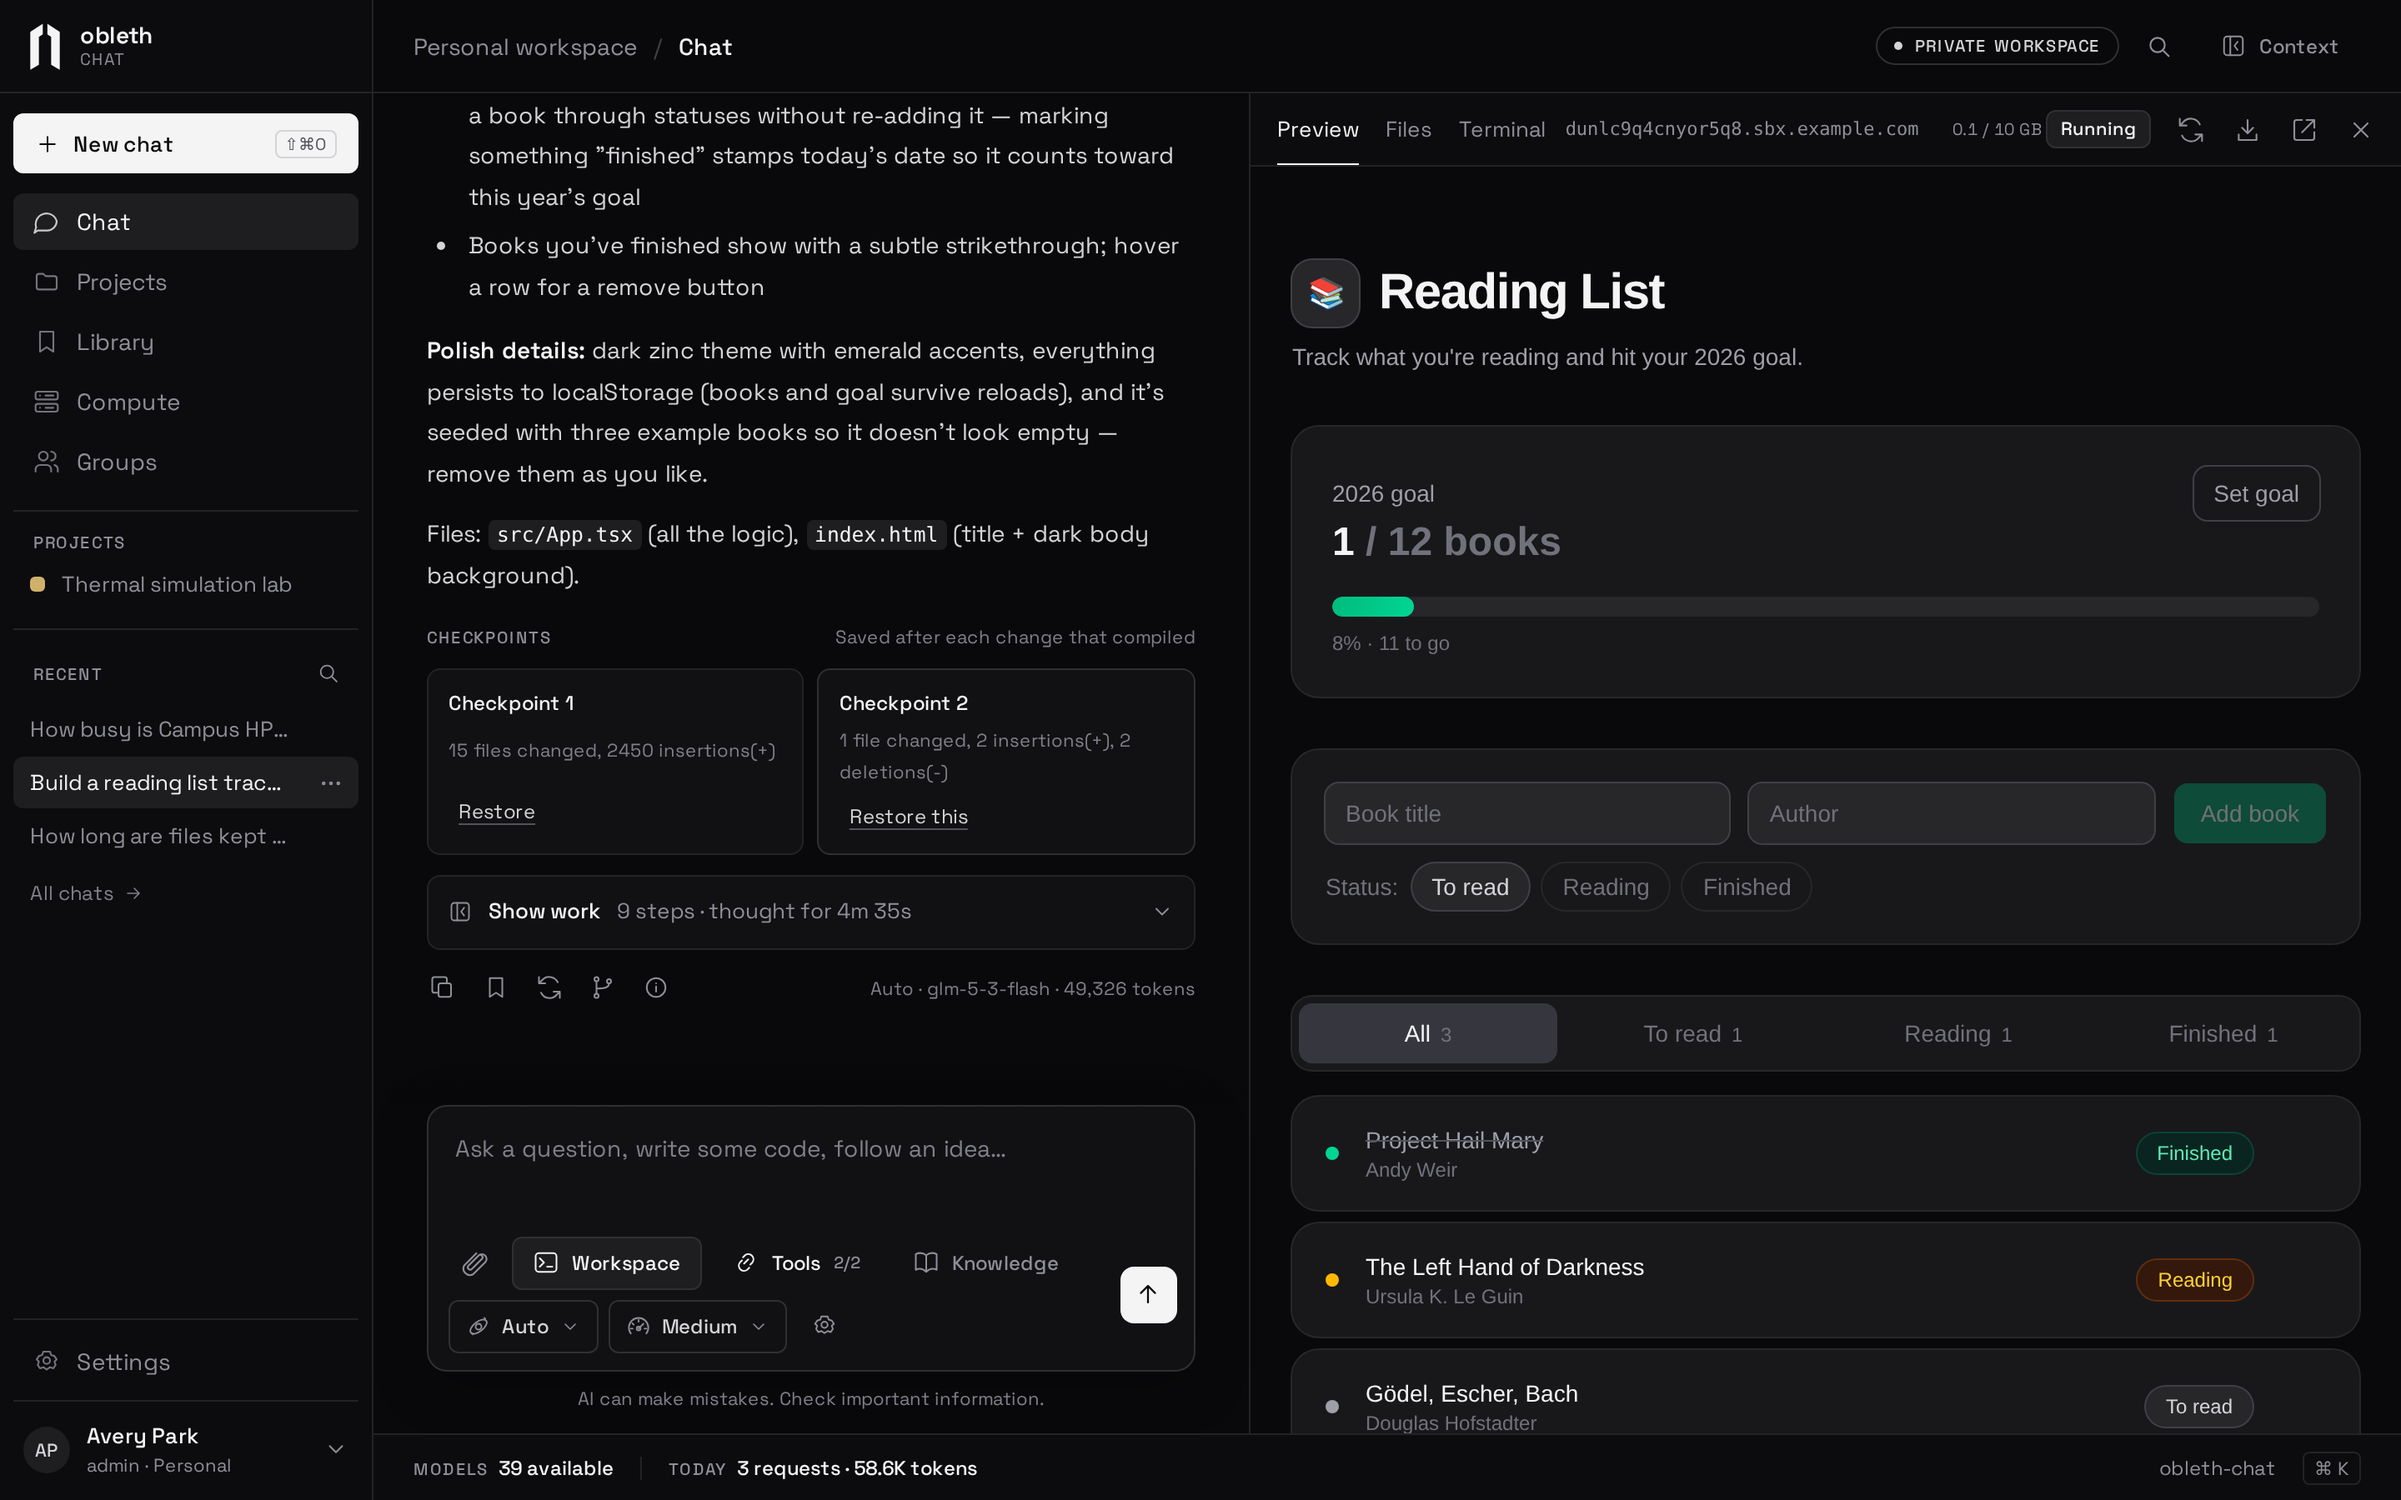
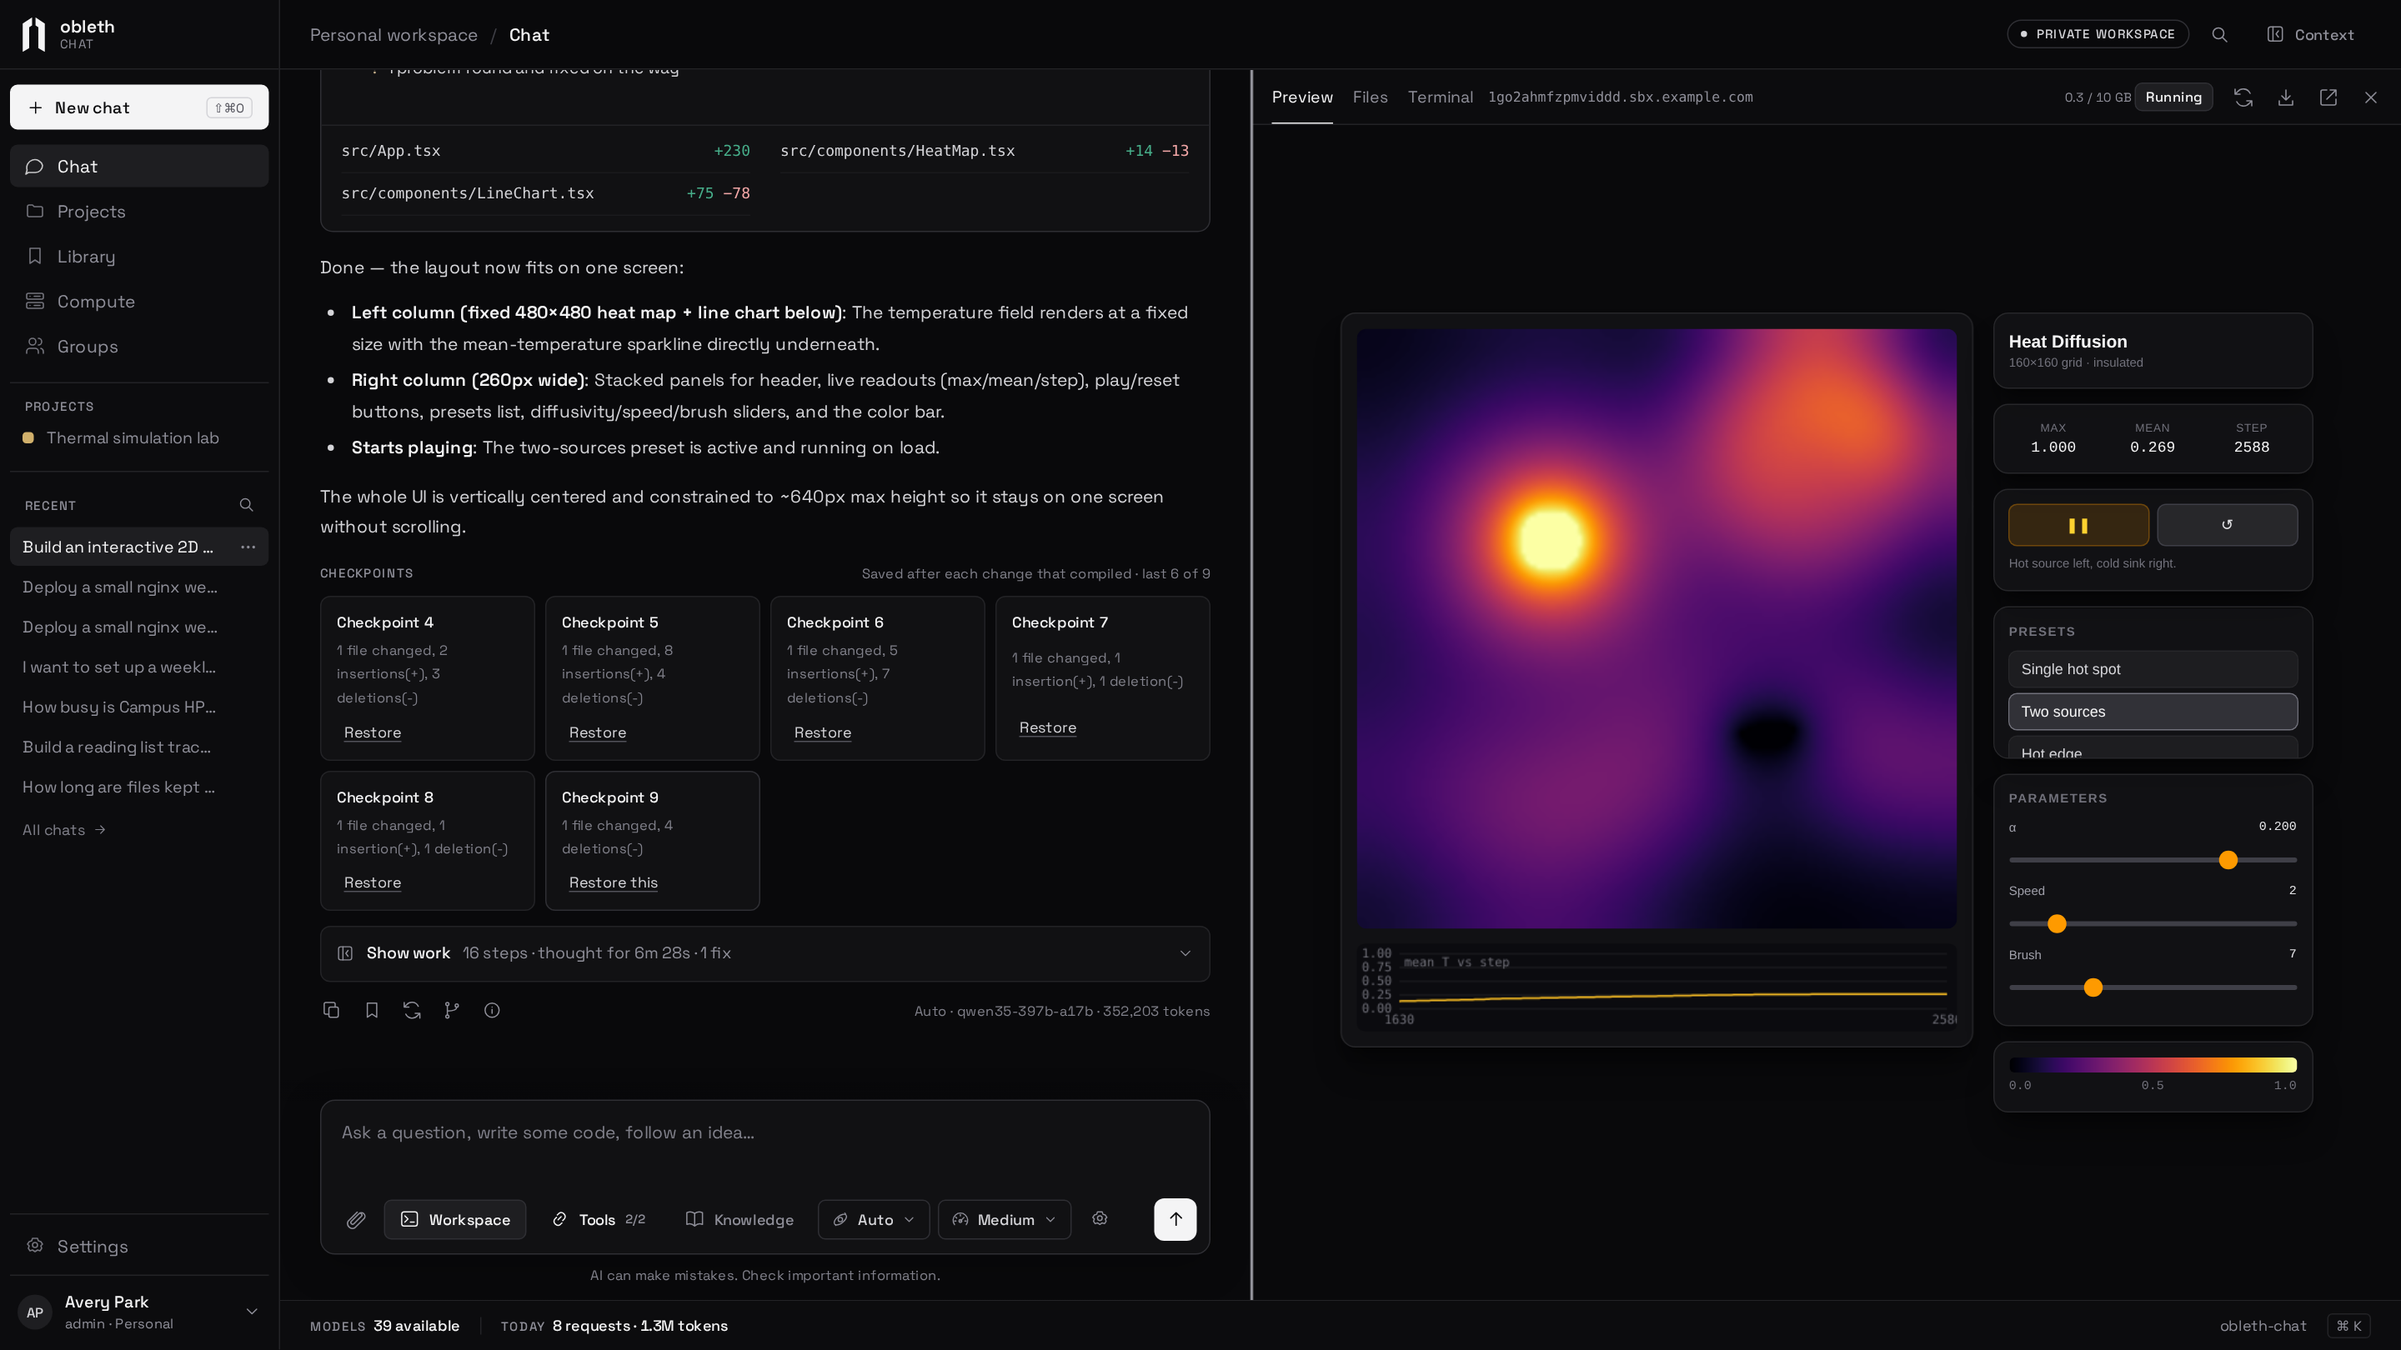
README: heat simulator workspace, question and approval cards

diff --git a/README.md b/README.md
@@ -25,7 +25,7 @@
 </p>
 
 <p align="center">
-  <img src=".github/assets/screenshots/workspace-build.png" alt="A chat building a reading-list app in a workspace: the model's summary, checkpoints and Show work on the left, the running app in the live preview on the right" width="100%">
+  <img src=".github/assets/screenshots/workspace-build.png" alt="A chat building an interactive heat diffusion simulator in a workspace: checkpoints and Show work on the left, the running app in the live preview on the right" width="100%">
 </p>
 
 ---
@@ -83,6 +83,14 @@ obleth-chat runs on your own servers in front of [obleth](https://github.com/the
     <td align="center"><sub>Your clusters, as tools that act as you</sub></td>
   </tr>
   <tr>
+    <td width="50%"><img src=".github/assets/screenshots/questions.png" alt="The model asking where a weekly benchmark should run, with a recommended option"></td>
+    <td width="50%"><img src=".github/assets/screenshots/approval.png" alt="A Kubernetes apply waiting for Allow or Deny, with the manifest the model wants to apply"></td>
+  </tr>
+  <tr>
+    <td align="center"><sub>The model asks before it plans</sub></td>
+    <td align="center"><sub>Nothing changes until you allow it</sub></td>
+  </tr>
+  <tr>
     <td width="50%"><img src=".github/assets/screenshots/project.png" alt="A project page with instructions for every chat, its collections and its chats"></td>
     <td width="50%"><img src=".github/assets/screenshots/clusters.png" alt="A Slurm cluster seen live: CPUs and memory in use, partitions, nodes and the queue"></td>
   </tr>
@@ -112,6 +120,32 @@ docker compose --env-file .env -f deploy/compose.connected.yaml up --build -d
 ```
 
 Accounts and chats work right away. To list models and stream replies, [connect the gateway](https://www.obleth.com/docs/run-chat/connect-gateway). The [install guide](https://www.obleth.com/docs/run-chat/install) covers Kubernetes, the first sign-in and production settings.
+
+## Branding and appearance
+
+Edit [web/site.config.js](web/site.config.js) and reload the page. This public, commented configuration controls the site name and subtitle, assistant name, browser title and description, optional logo and favicon, greeting and assistant icons, and the sign-in and home page text. You can also view the deployed file at `/site.config.js`. No build is needed when editing the served file; never put secrets in it.
+
+- Set `logo.light` and `logo.dark` to local image paths such as `./assets/custom/logo-light.svg`. One image works in both themes; leave both blank for a text-only brand. The default favicon is a neutral chat bubble.
+- Choose built-in icon names from [web/icons.js](web/icons.js), such as `chat`, `book`, or `sun`; set an icon to `''` to hide it.
+- Text is plain text, with `\n` for a line break. Set optional text, including the sign-in and home page footers, to `''` to hide it.
+- Set `appearance.defaultTheme` to `system`, `light`, or `dark`. People can switch appearance on the sign-in page or in Settings; their browser remembers their choice.
+
+For Docker, copy the configuration and place your images in a host directory:
+
+```bash
+mkdir -p branding/assets
+cp web/site.config.js branding/site.config.js
+```
+
+Add these mounts under the `obleth-chat` service in `deploy/compose.connected.yaml` (paths are relative to that Compose file):
+
+```yaml
+volumes:
+  - ../branding/site.config.js:/app/web/site.config.js:ro
+  - ../branding/assets:/app/web/assets/custom:ro
+```
+
+Recreate the container after adding the mounts. Subsequent branding edits only need a browser reload. Keep image URLs local to the app, for example `./assets/custom/logo-light.svg`; externally hosted images are not supported by the site's security policy. When serving a built `dist/` directory, edit its `site.config.js` and assets, or rebuild after editing `web/`.
 
 ## Repository
 
